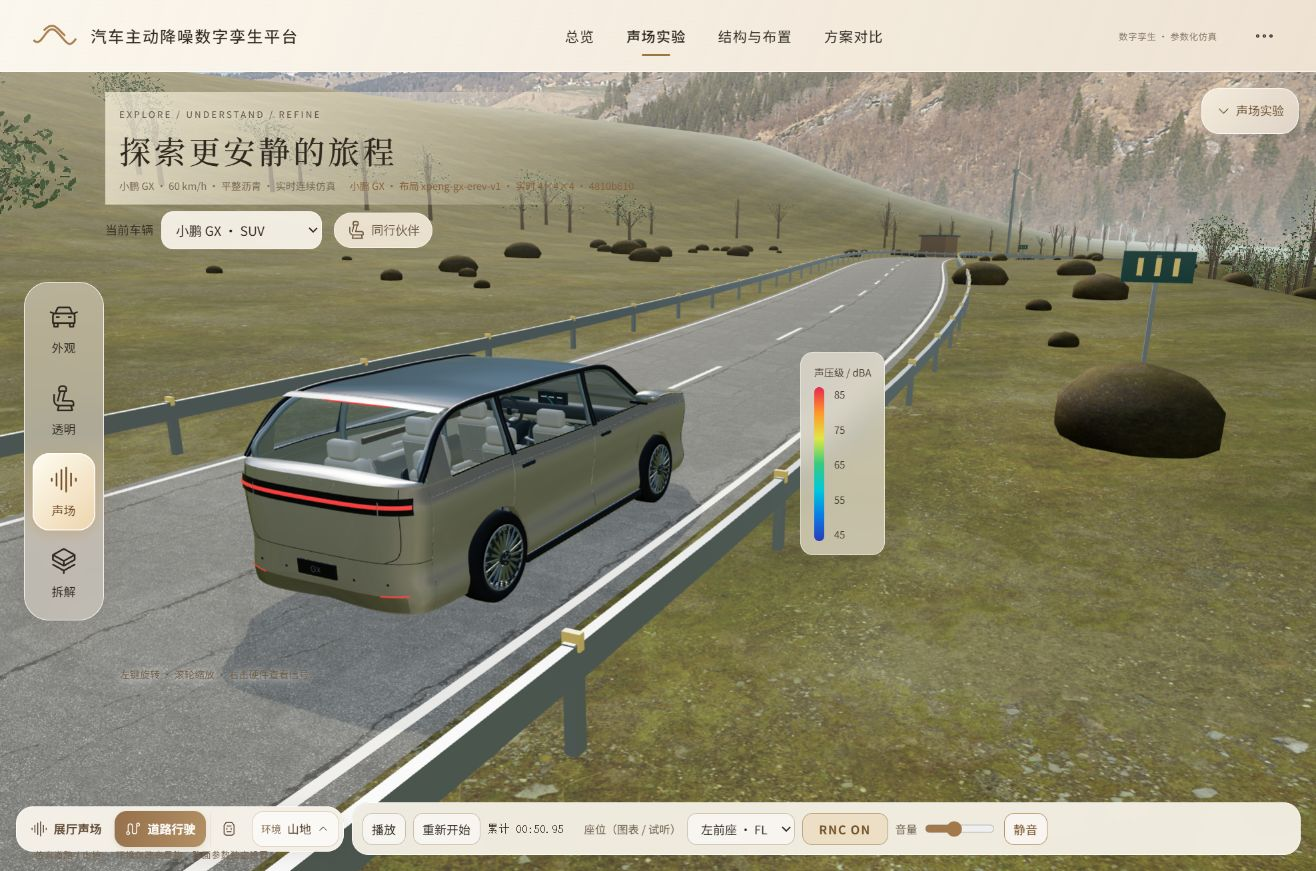
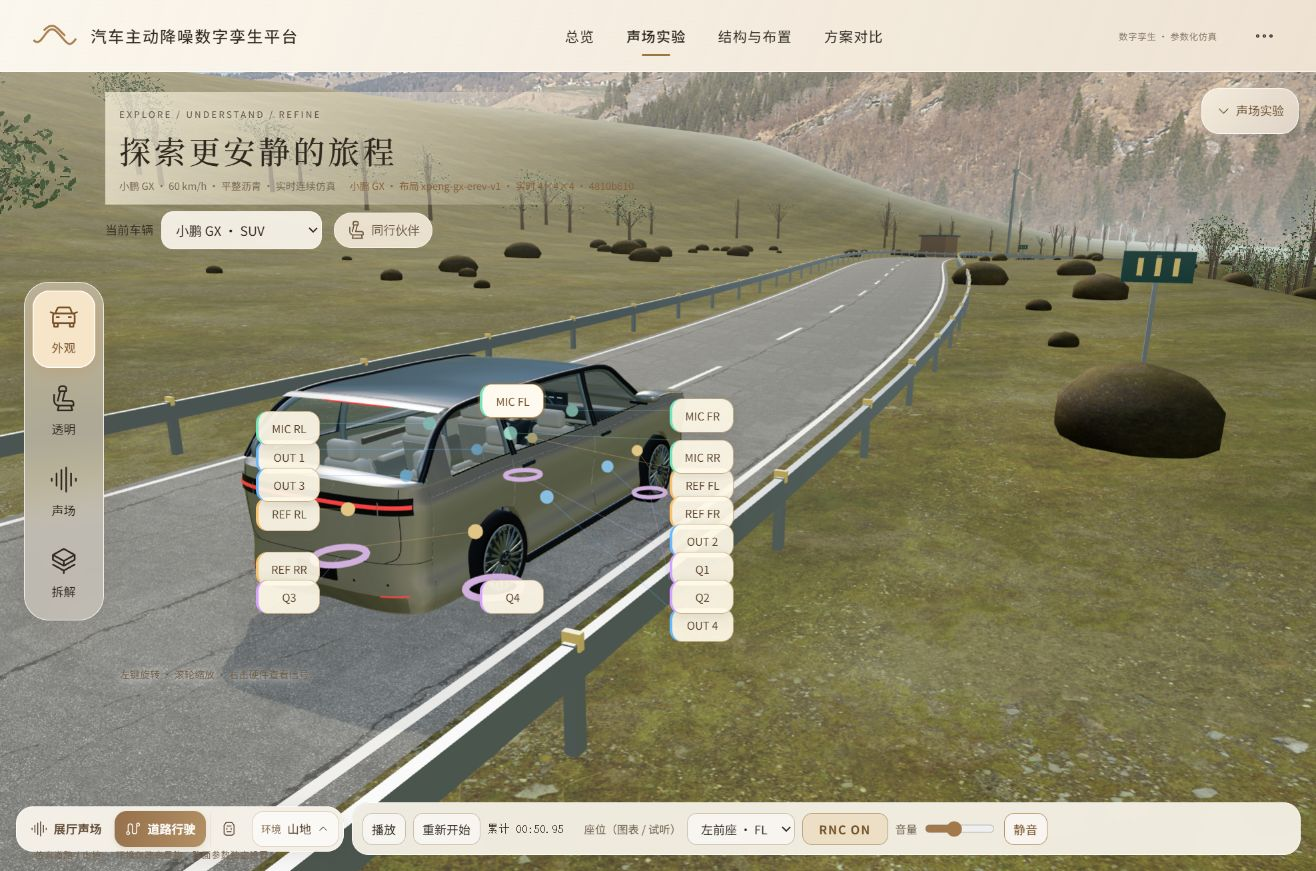
docs(a1): record main integration receipt and final layout
Role: A1
Task: A1-FULL-021
Identity-Source: user-declared
Executor: Codex

diff --git a/开发记录.md b/开发记录.md
@@ -1,5 +1,7 @@
 # 开发记录
 
+**2026-10-09 / A1-FULL-021 / 已合并main回执**：用户本轮授权的紧凑界面修复及A组整合已通过PR #59合并到main，合并SHA **e42fc7226929eabf7191697e368ca4ce093d5301**（北京时间2026-10-09 01:54）。最终头07c93da的两项GitHub verify均SUCCESS，未绕过保护或强推。本地显式更新origin/main后祖先验证：A1 #58 66c1e45、本端#59 07c93da、A2 #30 fe1662a、#63 d8731f5全部包含。#30随祖先合并；#58/#63因阶段base留开且无新提交可重定向，已保留原正文并补入#59集成回执后关闭为被整合，不能误称单独点击合并。最终源代码check356/356、实际桌面/720p/手机布局与实验状态证据在compact-controls；最后结构桌面图已补充。A2/B交接页保留作者原文，所属角色下一轮按本main接续。后续目标设备/第二机长稳、资产质量与本机受限人物资源边界仍保留，不以此轮界面验收宣称全部产品目标完成。该回执为纯文档/实图提交，通过独立PR更新main；无额外源码变更。Role:A1；Task:A1-FULL-021；Identity-Source:user-declared；Executor:Codex。
+
 **2026-10-09 / A1-FULL-021 / 最终组合验收与推送**：组合提交cb502b8已推送#59，base已调整为main；完整保留#58、A2 #63/#30与B2证据父链。最终pnpm check356/356、类型/边界/build通过；IAB实页1280×720底栏52.67px、结构收起109.33×46px/展开294×355.77px，390×844无水平溢出且手机模式入口与折叠按钮无重叠。环境选中/外点/Escape关闭、GX真实1989点实验暂停50.95秒后切环境保留结果通过；最终冷启动无新warn/error，视口已恢复。证据compact-controls；本机窄屏模拟不代替真手机/GPU/第二机验收。补充验收摘要时脚本stdin编码失败，已用文件补丁补齐，代码/证据本体已提交。当前待最新GitHub CI，尚未合并main；output/受限人物资产/dist未上传。Role:A1；Task:A1-FULL-021；Identity-Source:user-declared；Executor:Codex。
 
 **2026-10-09 / A1-FULL-021 / 手机控件避让**：手机工作页收起后的播放条与多余空白已修复，390×844无横向溢出；环境弹层约300px且在视口内。实页发现四种显示模式与右侧收起按钮有重叠，已缩短手机显示模式按钮内边距/图标，保留全部四个文字入口，为独立展开按钮让位。继续最终实图与check。Role:A1；Task:A1-FULL-021；Identity-Source:user-declared；Executor:Codex。

diff --git a/docs/coordination/A1.md b/docs/coordination/A1.md
@@ -1,5 +1,7 @@
 # A1 任务与交接
 
+**2026-10-09 / A1-FULL-021 / 已合并main**：紧凑界面修复及A组整合经PR #59于北京时间01:54合并，SHA **e42fc7226929eabf7191697e368ca4ce093d5301**。本端头07c93da两项GitHub verify SUCCESS；本地356/356、桌面/720p/390×844及真实实验联动通过。#58、#30、#63最新提交均经祖先检查包含于main；#30已合并，#58/#63关闭为已被#59整合，原正文和记录保留。后续直接从最新origin/main继续，不再重复合并上述阶段分支。本页旧“待合并”条目仅为历史；目标GPU/真手机/第二机/长稳与受限人物资源问题仍未代验。回执分支a/a1-main-integration-receipt只补文档与真实页面图，源码不变。Role:A1；Task:A1-FULL-021；Identity-Source:user-declared；Executor:Codex。
+
 **2026-10-09 / A1-FULL-021 / 最终组合验收与推送**：组合提交cb502b8已推送#59，base已调整为main；完整保留#58、A2 #63/#30与B2证据父链。最终pnpm check356/356、类型/边界/build通过；IAB实页1280×720底栏52.67px、结构收起109.33×46px/展开294×355.77px，390×844无水平溢出且手机模式入口与折叠按钮无重叠。环境选中/外点/Escape关闭、GX真实1989点实验暂停50.95秒后切环境保留结果通过；最终冷启动无新warn/error，视口已恢复。证据compact-controls；本机窄屏模拟不代替真手机/GPU/第二机验收。当前待最新GitHub CI，尚未合并main；output/受限人物资产/dist未上传。Role:A1；Task:A1-FULL-021；Identity-Source:user-declared；Executor:Codex。
 
 **2026-10-09 / A1-FULL-021 / 手机控件避让**：手机工作页收起后的播放条与多余空白已修复，390×844无横向溢出；环境弹层约300px且在视口内。实页发现四种显示模式与右侧收起按钮有重叠，已缩短手机显示模式按钮内边距/图标，保留全部四个文字入口，为独立展开按钮让位。继续最终实图与check。Role:A1；Task:A1-FULL-021；Identity-Source:user-declared；Executor:Codex。

diff --git a/docs/evidence/A1/A1-FULL-021/compact-controls/README.md b/docs/evidence/A1/A1-FULL-021/compact-controls/README.md
@@ -1,5 +1,7 @@
 # 紧凑工作控件修复与集成验收
 
+**已集成到main**：[PR #59](https://github.com/KnowCooker/RNC_3D_SIMULATION/pull/59)，合并SHA `e42fc7226929eabf7191697e368ca4ce093d5301`，北京时间2026-10-09 01:54。最终头07c93da的两项GitHub verify均通过。#58/#30/#63所有头提交已做祖先包含检查；#58/#63以已被#59整合关闭，#30自动进入已合并状态。最新默认视口图为 `structure-final-desktop.jpg`；`road-final-desktop.jpg`补录为外观模式，图上的声学安装点为该显示模式既有功能。
+
 ## 最终组合验证（2026-10-09）
 
 - 集成 A2 #63 `d8731f5`（含 #30 `fe1662a` 与 B2 文档证据父链），当前 A1 分支已含 #58 `66c1e45`；未直接合并 #58 的旧失败检查。
